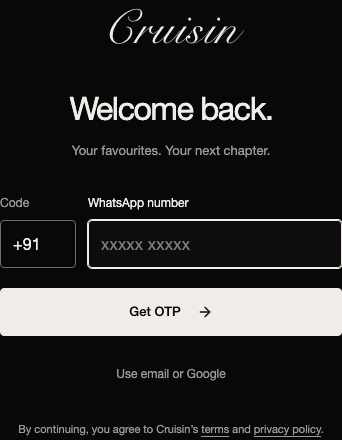
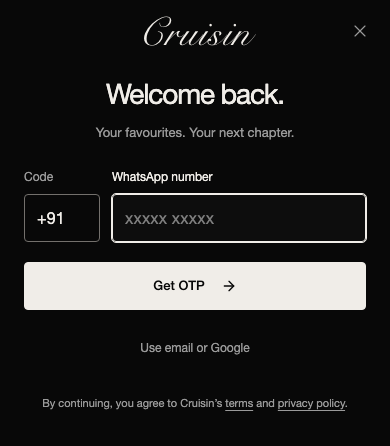
feat: add swipe-up authentication sheets for phones and tablets

diff --git a/client/components/auth/auth-page.tsx b/client/components/auth/auth-page.tsx
@@ -3,11 +3,12 @@
 
 import { useGoogleOAuth, type CredentialResponse, type GsiButtonConfiguration, type IdConfiguration } from '@react-oauth/google';
 import { zodResolver } from '@hookform/resolvers/zod';
-import { motion } from 'framer-motion';
+import { motion,useDragControls } from 'framer-motion';
 import { ArrowLeft, ArrowRight, X } from 'lucide-react';
 import Link from 'next/link';
 import { useRouter, useSearchParams } from 'next/navigation';
 import { useEffect, useId, useMemo, useRef, useState, type ReactNode } from 'react';
+import {createPortal} from 'react-dom';
 import { Controller, useForm } from 'react-hook-form';
 import type { z } from 'zod';
 import { Button } from '@/components/ui/button';
@@ -18,6 +19,7 @@ import { ROUTES } from '@/constants/routes';
 import { useGoogleLogin, useLogin, useRegister, useRequestOtp, useVerifyOtp } from '@/hooks/useAuth';
 import { e164PhoneSchema, loginSchema, registerSchema, otpVerifySchema } from '@/lib/schemas';
 import { acquireBodyScrollLock } from '@/lib/body-scroll-lock';
+import {useCompactAuth} from '@/hooks/useCompactAuth';
 import {useStorefrontReducedMotion} from '@/hooks/useStorefrontMotion';
 import {authSurfaceMotion} from '@/lib/animations';
 import type { User } from '@/types/user.types';
@@ -66,6 +68,13 @@ export interface AuthPageProps {
 }
 
 export function AuthPage({ initialTab, presentation = 'page', initialMethod, redirectTo, onDismiss }: AuthPageProps): ReactNode {
+  const [mounted,setMounted]=useState(false);
+  useEffect(()=>setMounted(true),[]);
+  const compact=useCompactAuth();
+  const surface=presentation==='sheet'||compact?'sheet':'page';
+  const dragControls=useDragControls();
+  const dragged=useRef(false);
+  const [expanded,setExpanded]=useState(false);
   const instance=useId();
   const phoneId=`whatsapp-number-${instance}`;
   const otpId=`whatsapp-otp-${instance}`;
@@ -75,7 +84,7 @@ export function AuthPage({ initialTab, presentation = 'page', initialMethod, red
   const router = useRouter();
   const searchParams = useSearchParams();
   const [tab, setTab] = useState<AuthTab>(initialTab);
-  const [showAlternatives, setShowAlternatives] = useState(() => !IDENTITY_CONFIG.whatsappOtpEnabled || initialMethod === 'alternative' || searchParams.get('method') === 'alternative');
+  const [showAlternatives, setShowAlternatives] = useState(() => !IDENTITY_CONFIG.whatsappOtpEnabled || initialTab==='signup' || initialMethod === 'alternative' || searchParams.get('method') === 'alternative');
   const [countryCode, setCountryCode] = useState('+91');
   const [nationalNumber, setNationalNumber] = useState('');
   const [phoneError, setPhoneError] = useState('');
@@ -99,7 +108,7 @@ export function AuthPage({ initialTab, presentation = 'page', initialMethod, red
   }, [countryCode, nationalNumber]);
 
   useEffect(() => {
-    if (presentation !== 'sheet') return;
+    if (surface !== 'sheet') return;
     const opener=document.activeElement instanceof HTMLElement?document.activeElement:null;
     const releaseScrollLock = acquireBodyScrollLock();
     document.body.classList.add('mobile-auth-open');
@@ -108,14 +117,14 @@ export function AuthPage({ initialTab, presentation = 'page', initialMethod, red
       document.body.classList.remove('mobile-auth-open');
       if(opener?.isConnected)opener.focus({preventScroll:true});
     };
-  }, [presentation]);
+  }, [surface]);
 
   useEffect(() => {
-    if(presentation!=='sheet')return;
+    if(surface!=='sheet')return;
     const focusId=requestOtp.data?otpId:showAlternatives?`auth-${tab==='signup'?'name':'email'}-${instance}`:phoneId;
     const focusTimer=window.setTimeout(()=>document.getElementById(focusId)?.focus(),80);
     return () => window.clearTimeout(focusTimer);
-  }, [instance,otpId,phoneId,presentation,requestOtp.data,showAlternatives,tab]);
+  }, [instance,otpId,phoneId,surface,requestOtp.data,showAlternatives,tab]);
 
   useEffect(() => {
     if (secondsRemaining <= 0) return;
@@ -222,11 +231,12 @@ export function AuthPage({ initialTab, presentation = 'page', initialMethod, red
   const otpError = verifyForm.formState.errors.otp?.message ?? (verifyOtp.error ? (/invalid otp/i.test(verifyOtp.error.message) ? COPY.auth.whatsapp.incorrectCode : verifyOtp.error.message) : undefined);
   const authError = login.error ?? registerMutation.error ?? googleLogin.error ?? requestOtp.error;
   const whatsappPrimary = IDENTITY_CONFIG.whatsappOtpEnabled && !showAlternatives;
+  const dismiss=():void=>{if(onDismiss)onDismiss();else router.replace(ROUTES.shop);};
   const isOtp=Boolean(requestOtp.data);
   const title=isOtp?COPY.auth.minimal.codeTitle:tab==='signup'?COPY.auth.createAccount:COPY.auth.minimal.welcome;
   const consent=<p className="auth-consent">{COPY.auth.whatsapp.consentPrefix} <Link href={ROUTES.terms}>{COPY.auth.whatsapp.terms}</Link> {COPY.common.and} <Link href={ROUTES.privacy}>{COPY.auth.whatsapp.privacy}</Link>.</p>;
-  const authShell=<div data-testid="auth-shell" className="minimal-auth" data-presentation={presentation}>
-    {presentation==='sheet'?<button className="auth-dismiss" type="button" onClick={onDismiss} aria-label={COPY.common.close}><X size={20} strokeWidth={1.4}/></button>:null}
+  const authShell=<div data-testid="auth-shell" className="minimal-auth" data-presentation={surface} id={`auth-content-${instance}`}>
+    {surface==='sheet'?<button className="auth-dismiss" type="button" onClick={dismiss} aria-label={COPY.common.close}><X size={20} strokeWidth={1.4}/></button>:null}
     <Link href={ROUTES.home} onClick={onDismiss} className="auth-identity brand-wordmark-script">{COPY.brand.name}</Link>
     <div className="auth-heading"><h1 id={titleId}>{title}</h1><p>{isOtp?`${COPY.auth.whatsapp.sentTo} ${formatPhone(countryCode,nationalNumber)}`:COPY.auth.minimal.intro}</p></div>
     {isOtp?<form noValidate onSubmit={verifyForm.handleSubmit(verifyCode)} data-testid="otp-bottom-sheet" className="auth-form auth-otp-form">
@@ -239,7 +249,7 @@ export function AuthPage({ initialTab, presentation = 'page', initialMethod, red
       {requestOtp.error?<p className="auth-error" role="alert">{requestOtp.error.message}</p>:null}
     </form>:whatsappPrimary?<div data-testid="whatsapp-primary-auth">
       <form noValidate onSubmit={event=>{event.preventDefault();sendOtp();}} className="auth-form">
-        <div className="auth-phone-row"><Input id={`whatsapp-country-${instance}`} label={COPY.auth.whatsapp.countryCode} inputMode="tel" autoComplete="tel-country-code" value={countryCode} onChange={event=>setCountryCode(event.target.value)}/><Input id={phoneId} label={COPY.auth.whatsapp.phone} type="tel" inputMode="numeric" autoComplete="tel-national" enterKeyHint="send" autoFocus maxLength={10} value={nationalNumber} onChange={event=>setNationalNumber(event.target.value.replace(/\D/g,'').slice(0,10))} placeholder={COPY.auth.whatsapp.phonePlaceholder} error={phoneError}/></div>
+        <div className="auth-phone-row"><Input id={`whatsapp-country-${instance}`} label={COPY.auth.whatsapp.countryCode} inputMode="tel" autoComplete="tel-country-code" value={countryCode} onChange={event=>setCountryCode(event.target.value)}/><Input id={phoneId} label={COPY.auth.whatsapp.phone} type="tel" inputMode="numeric" autoComplete="tel-national" enterKeyHint="send" autoFocus={surface==='page'} maxLength={10} value={nationalNumber} onChange={event=>setNationalNumber(event.target.value.replace(/\D/g,'').slice(0,10))} placeholder={COPY.auth.whatsapp.phonePlaceholder} error={phoneError}/></div>
         <Button type="submit" className="auth-primary" isLoading={requestOtp.isPending}>{COPY.auth.whatsapp.getOtp}<ArrowRight size={16}/></Button>
       </form>
       {authError?<p className="auth-error" role="alert">{authError.message}</p>:null}
@@ -269,17 +279,20 @@ export function AuthPage({ initialTab, presentation = 'page', initialMethod, red
     {consent}
   </div>;
 
-  if(presentation==='sheet')return <motion.div ref={dialogRef} data-testid="mobile-auth-overlay" className="auth-overlay" role="dialog" aria-modal="true" aria-labelledby={titleId} initial="closed" animate="open" exit="closed" onKeyDown={event=>{
-    if(event.key==='Escape'){event.stopPropagation();if(isOtp)resetOtp();else onDismiss?.();}
+  if(surface==='sheet')return mounted?createPortal(<motion.div ref={dialogRef} data-testid="mobile-auth-overlay" className="auth-overlay" role="dialog" aria-modal="true" aria-labelledby={titleId} initial="closed" animate="open" exit="closed" onKeyDown={event=>{
+    if(event.key==='Escape'){event.stopPropagation();if(isOtp)resetOtp();else dismiss();}
     if(event.key!=='Tab'||!dialogRef.current)return;
-    const controls=Array.from(dialogRef.current.querySelectorAll<HTMLElement>('.minimal-auth a[href],.minimal-auth button:not([disabled]),.minimal-auth input:not([type="hidden"]):not([disabled])'));
+    const controls=Array.from(dialogRef.current.querySelectorAll<HTMLElement>('[data-auth-drag-handle],.minimal-auth a[href],.minimal-auth button:not([disabled]),.minimal-auth input:not([type="hidden"]):not([disabled])'));
     const first=controls[0],last=controls[controls.length-1];
     if(event.shiftKey&&document.activeElement===first){event.preventDefault();last?.focus();}
     else if(!event.shiftKey&&document.activeElement===last){event.preventDefault();first?.focus();}
   }}>
-    <motion.button type="button" data-testid="mobile-auth-backdrop" aria-label={COPY.common.close} onClick={onDismiss} className="auth-backdrop" variants={authSurfaceMotion.backdrop} transition={{duration:reduced?0:authSurfaceMotion.fade}}/>
-    <motion.div className="auth-sheet" variants={reduced?authSurfaceMotion.static:authSurfaceMotion.sheet} transition={{duration:reduced?0:authSurfaceMotion.duration,ease:authSurfaceMotion.ease}}>{authShell}</motion.div>
-  </motion.div>;
+    <motion.button type="button" data-testid="mobile-auth-backdrop" aria-label={COPY.common.close} onClick={dismiss} className="auth-backdrop" variants={authSurfaceMotion.backdrop} transition={{duration:reduced?0:authSurfaceMotion.fade}}/>
+    <motion.div className="auth-sheet" data-expanded={expanded&&compact} drag={compact?'y':false} dragListener={false} dragControls={dragControls} dragConstraints={{top:0,bottom:0}} dragElastic={{top:.1,bottom:.35}} dragMomentum={false} onDragStart={()=>{dragged.current=true;}} onDragEnd={(_,info)=>{if(info.offset.y>authSurfaceMotion.dismissDistance||info.velocity.y>authSurfaceMotion.dismissVelocity)dismiss();else if(info.offset.y < -authSurfaceMotion.expandDistance)setExpanded(true);}} variants={reduced?authSurfaceMotion.static:compact?authSurfaceMotion.bottomSheet:authSurfaceMotion.sheet} transition={{duration:reduced?0:authSurfaceMotion.duration,ease:authSurfaceMotion.ease}}>
+      {compact?<button type="button" className="auth-sheet-handle" data-auth-drag-handle aria-label={expanded?COPY.auth.minimal.collapseForm:COPY.auth.minimal.expandForm} aria-expanded={expanded} aria-controls={`auth-content-${instance}`} onPointerDown={event=>{dragged.current=false;dragControls.start(event);}} onClick={event=>{if(event.detail>0&&dragged.current)return;setExpanded(value=>!value);}}><span/></button>:null}
+      {authShell}
+    </motion.div>
+  </motion.div>,document.body):null;
   return <main className="auth-page">{authShell}</main>;
 }
 

diff --git a/client/app/(shop)/checkout/page.tsx b/client/app/(shop)/checkout/page.tsx
@@ -10,6 +10,7 @@ import type { ReactNode } from 'react';
 import { useEffect, useMemo, useRef, useState } from 'react';
 import { useForm } from 'react-hook-form';
 import type { z } from 'zod';
+import {useCompactAuth} from '@/hooks/useCompactAuth';
 import { useMobileAuthSheet } from '@/components/auth/mobile-auth-sheet-provider';
 import { CheckoutProgress } from '@/components/checkout/checkout-progress';
 import { CheckoutFlowHeader } from '@/components/checkout/checkout-flow-header';
@@ -47,6 +48,7 @@ type CheckoutForm = z.infer<typeof checkoutPageSchema>;
 const getOrderId = (order: { _id?: string; id?: string }): string => order.id ?? order._id ?? '';
 
 export default function CheckoutPage(): ReactNode {
+  const compactAuth=useCompactAuth();
   const router = useRouter();
   const { openMobileAuth } = useMobileAuthSheet();
   const checkout = useCheckout();
@@ -172,7 +174,7 @@ export default function CheckoutPage(): ReactNode {
   };
   const onSubmit = (data: CheckoutForm): void => { if (!user) return; setPaymentMessage(''); const address = { fullName: data.fullName, phone: data.phone, line1: data.line1, line2: data.line2, city: data.city, state: data.state, postalCode: data.postalCode, country: data.country }; const paymentMode = data.paymentMethod === 'cod' ? 'cod' : data.paymentMethod === 'partial' ? 'partial' : 'online'; const metaEventId = getOrCreateCheckoutEventId({ items: visibleCartItems, value: orderTotal, coupon }); checkout.mutate({ shippingAddress: address, billingAddress: address, paymentMethod: 'razorpay', paymentMode, shippingMethod: data.shippingMethod, logisticsQuoteId: logisticsQuote.data?.quoteId, metaEventId }, { onSuccess: (result) => { const id = getOrderId(result.order); if (paymentMode === 'cod') { finish(result.order, 'success'); return; } const issue = checkoutPaymentSessionIssue(result, orderTotal, paymentMode); if (issue) { clearCheckoutAttempt(); setPaymentMessage(issue); return; } if (!result.payment?.id) { clearCheckoutAttempt(); setPaymentMessage('A payment session could not be created. Please retry.'); return; } void openRazorpay(id, result.payment.id, result.amountToPay, data).catch((error: unknown) => setPaymentMessage(error instanceof Error ? error.message : 'Secure checkout could not be opened.')); } }); };
   if (!isAuthInitialized) return <main className="min-h-dvh px-6 py-32 lg:px-20" aria-busy="true"><section className="mx-auto max-w-2xl border border-border bg-background-elevated p-8 shadow-lg"><p className="font-accent text-xs uppercase tracking-[0.16em] text-accent-gold">Private checkout</p><div className="mt-6 h-12 max-w-md animate-shimmer bg-[linear-gradient(90deg,var(--bg-elevated),var(--bg-overlay),var(--bg-elevated))] bg-[length:200%_100%]" /><p className="mt-6 text-sm text-text-secondary" aria-live="polite">{COPY.auth.checkingSession}</p></section></main>;
-  if (!user) { const login = ROUTES.login + '?redirect=' + encodeURIComponent(ROUTES.checkout); return <main className="px-6 py-32 lg:px-20"><section className="mx-auto max-w-2xl border border-border bg-background-elevated p-8 text-center shadow-lg"><p className="font-accent text-xs uppercase tracking-[0.16em] text-accent-gold">{COPY.auth.privateAccess}</p><h1 className="mt-4 font-display text-4xl text-text-primary">{COPY.auth.prompts.checkout.title}</h1><p className="mx-auto mt-4 max-w-lg text-sm leading-6 text-text-secondary">{COPY.auth.prompts.checkout.body}</p><div className="mt-8 grid gap-3"><button type="button" onClick={() => openMobileAuth({ next: ROUTES.checkout })} className="inline-flex h-12 items-center justify-center bg-accent-gold px-5 text-xs uppercase tracking-[0.1em] text-text-inverse md:hidden">{COPY.auth.whatsapp.continue}</button><Link href={login} className="hidden h-12 items-center justify-center bg-accent-gold px-5 text-xs uppercase tracking-[0.1em] text-text-inverse md:inline-flex">{COPY.auth.whatsapp.continue}</Link><button type="button" onClick={() => openMobileAuth({ next: ROUTES.checkout, method: 'alternative' })} className="inline-flex h-12 items-center justify-center border border-border px-5 text-xs uppercase tracking-[0.1em] text-text-primary md:hidden">{COPY.auth.whatsapp.useAlternatives}</button><Link href={login + '&method=alternative'} className="hidden h-12 items-center justify-center border border-border px-5 text-xs uppercase tracking-[0.1em] text-text-primary md:inline-flex">{COPY.auth.whatsapp.useAlternatives}</Link></div><Link href={ROUTES.shop} className="mt-5 inline-flex text-xs uppercase tracking-[0.1em] text-text-secondary hover:text-text-primary">{COPY.auth.prompts.checkout.dismiss}</Link></section></main>; }
+  if (!user) { const login = ROUTES.login + '?redirect=' + encodeURIComponent(ROUTES.checkout); return <main className="px-6 py-32 lg:px-20"><section className="mx-auto max-w-2xl border border-border bg-background-elevated p-8 text-center shadow-lg"><p className="font-accent text-xs uppercase tracking-[0.16em] text-accent-gold">{COPY.auth.privateAccess}</p><h1 className="mt-4 font-display text-4xl text-text-primary">{COPY.auth.prompts.checkout.title}</h1><p className="mx-auto mt-4 max-w-lg text-sm leading-6 text-text-secondary">{COPY.auth.prompts.checkout.body}</p><div className="mt-8 grid gap-3"><button type="button" onClick={() => openMobileAuth({ next: ROUTES.checkout })} className={(compactAuth?'inline-flex':'hidden')+' h-12 items-center justify-center bg-accent-gold px-5 text-xs uppercase tracking-[0.1em] text-text-inverse'}>{COPY.auth.whatsapp.continue}</button><Link href={login} className={(compactAuth?'hidden':'inline-flex')+' h-12 items-center justify-center bg-accent-gold px-5 text-xs uppercase tracking-[0.1em] text-text-inverse'}>{COPY.auth.whatsapp.continue}</Link><button type="button" onClick={() => openMobileAuth({ next: ROUTES.checkout, method: 'alternative' })} className={(compactAuth?'inline-flex':'hidden')+' h-12 items-center justify-center border border-border px-5 text-xs uppercase tracking-[0.1em] text-text-primary'}>{COPY.auth.whatsapp.useAlternatives}</button><Link href={login + '&method=alternative'} className={(compactAuth?'hidden':'inline-flex')+' h-12 items-center justify-center border border-border px-5 text-xs uppercase tracking-[0.1em] text-text-primary'}>{COPY.auth.whatsapp.useAlternatives}</Link></div><Link href={ROUTES.shop} className="mt-5 inline-flex text-xs uppercase tracking-[0.1em] text-text-secondary hover:text-text-primary">{COPY.auth.prompts.checkout.dismiss}</Link></section></main>; }
   const changePayment = (value: 'razorpay' | 'cod' | 'partial'): void => {
     if (value === selectedPayment) return;
     setValue('paymentMethod', value);

diff --git a/client/e2e/auth-swipe.spec.ts b/client/e2e/auth-swipe.spec.ts
@@ -1,0 +1,63 @@
+import {expect,test,type Page} from '@playwright/test';
+import AxeBuilder from '@axe-core/playwright';
+import {resolve} from 'node:path';
+import {mkdir} from 'node:fs/promises';
+
+test.use({hasTouch:true});
+async function swipeHandle(page:Page,distance:number):Promise<void>{
+ const bounds=await page.locator('[data-auth-drag-handle]').boundingBox();
+ if(!bounds)throw new Error('Missing sheet handle');
+ const x=bounds.x+bounds.width/2,y=bounds.y+bounds.height/2;
+ const session=await page.context().newCDPSession(page);
+ await session.send('Input.dispatchTouchEvent',{type:'touchStart',touchPoints:[{x,y}]});
+ for(let step=1;step<=10;step++){
+  await session.send('Input.dispatchTouchEvent',{type:'touchMove',touchPoints:[{x,y:y+distance*step/10}]});
+  await page.waitForTimeout(20);
+ }
+ await session.send('Input.dispatchTouchEvent',{type:'touchEnd',touchPoints:[]});
+ await session.detach();
+}
+async function expectBottom(page:Page):Promise<void>{
+ await expect.poll(async()=>{const bounds=await page.locator('.auth-sheet').boundingBox();return bounds?Math.abs(bounds.y+bounds.height-(page.viewportSize()?.height??0)):100;}).toBeLessThan(2);
+ await expect.poll(()=>page.evaluate(()=>document.documentElement.scrollWidth<=innerWidth)).toBe(true);
+}
+for(const width of [390,820,1024,1194,1366])for(const theme of ['light','dark'] as const){
+ test(`bottom sheet supports all forms and touch gestures: ${width}px ${theme}`,async({page})=>{
+  await page.setViewportSize({width,height:width===1194?834:1000});
+  await page.addInitScript(value=>localStorage.setItem('cruisin-storefront-theme',value),theme);
+  await page.route('**/api/v1/auth/otp/request',route=>route.fulfill({status:201,contentType:'application/json',body:JSON.stringify({success:true,data:{requestId:'665f6d8403bd2edc93800000',channel:'whatsapp',cooldownSeconds:60,expiresAt:new Date(Date.now()+300000).toISOString()},message:'OTP sent'})}));
+  await page.goto('/shop');
+  await expect(page.locator('html')).toHaveClass(new RegExp(theme));
+  await page.getByRole('button',{name:'Account',exact:true}).click();
+  const overlay=page.getByTestId('mobile-auth-overlay');
+  await expect(overlay).toBeVisible();await expectBottom(page);
+  await expect(page).toHaveURL(/\/shop$/);
+  const capture=async(name:string):Promise<void>=>{if(width===390||width===1024){await mkdir(resolve('../docs/qa/screenshots'),{recursive:true});await page.locator('.auth-sheet').screenshot({path:resolve(`../docs/qa/screenshots/cruisin-v2-swipe-${name}-${theme}-${width}.png`)});}};
+  await capture('login');
+  await swipeHandle(page,-120);await expect(page.locator('.auth-sheet')).toHaveAttribute('data-expanded','true');await expectBottom(page);
+  await page.getByRole('button',{name:'Collapse form',exact:true}).click();await expect(page.locator('.auth-sheet')).toHaveCSS('min-height','0px');
+  await page.getByLabel('WhatsApp number').fill('9876543210');await page.getByRole('button',{name:'Get OTP',exact:true}).click();
+  await expect(page.getByLabel('Verification code')).toBeFocused();await expectBottom(page);await expect(page.getByRole('dialog')).toHaveCount(1);await capture('otp');
+  await page.getByRole('button',{name:'Change number',exact:true}).click();await page.getByRole('button',{name:'Use email or Google',exact:true}).click();
+  await expect(page.getByLabel('Password',{exact:true})).toBeVisible();await expectBottom(page);
+  await page.getByRole('tab',{name:'Create account',exact:true}).click();await expect(page.getByLabel('Confirm Password')).toBeVisible();await expectBottom(page);await capture('signup');
+  expect((await new AxeBuilder({page}).include('.auth-overlay').withTags(['wcag2a','wcag2aa']).analyze()).violations).toEqual([]);
+  await swipeHandle(page,140);await expect(overlay).toBeHidden();await expect(page).toHaveURL(/\/shop$/);await expect.poll(()=>page.evaluate(()=>document.body.style.overflow)).toBe('');
+  await expect(page.getByRole('button',{name:'Account',exact:true})).toBeFocused();
+ });
+}
+
+test('direct tablet login and registration URLs use sheets, while desktop keeps its page',async({page,browser})=>{
+ await page.setViewportSize({width:1024,height:900});await page.goto('/register');
+ await expect(page.getByTestId('mobile-auth-overlay')).toBeVisible();await expect(page.getByLabel('Confirm Password')).toBeVisible();await expectBottom(page);
+ await page.getByTestId('auth-shell').getByRole('button',{name:'Close',exact:true}).click();await expect(page).toHaveURL(/\/shop$/);
+ await page.goto('/login?method=alternative');await expect(page.getByTestId('mobile-auth-overlay')).toBeVisible();await expectBottom(page);
+ const desktop=await browser.newPage({viewport:{width:1440,height:1000},hasTouch:false});await desktop.goto('http://127.0.0.1:3192/login?method=alternative');await expect(desktop.getByTestId('mobile-auth-overlay')).toBeHidden();await expect(desktop.locator('.auth-page')).toBeVisible();await expect.poll(()=>desktop.evaluate(()=>document.body.style.overflow)).toBe('');await desktop.close();
+});
+
+test('tablet checkout opens the authentication sheet without leaving checkout',async({page})=>{
+ await page.setViewportSize({width:1024,height:900});await page.goto('/checkout');
+ await page.locator('#main').getByRole('button',{name:'Continue with WhatsApp',exact:true}).click();
+ await expect(page.getByTestId('mobile-auth-overlay')).toBeVisible();await expectBottom(page);await expect(page).toHaveURL(/\/checkout$/);
+ await page.getByTestId('mobile-auth-backdrop').click({position:{x:10,y:10}});await expect(page.getByTestId('mobile-auth-overlay')).toBeHidden();await expect.poll(()=>page.evaluate(()=>document.body.style.overflow)).toBe('');
+});

diff --git a/client/components/auth/login-required-modal.tsx b/client/components/auth/login-required-modal.tsx
@@ -1,7 +1,8 @@
 'use client';
 
 import Link from 'next/link';
-import type { ReactNode } from 'react';
+import {useEffect,type ReactNode} from 'react';
+import {useCompactAuth} from '@/hooks/useCompactAuth';
 import { useMobileAuthSheet } from '@/components/auth/mobile-auth-sheet-provider';
 import { Button } from '@/components/ui/button';
 import { Modal } from '@/components/shared/modal';
@@ -16,7 +17,9 @@ export interface LoginRequiredModalProps {
 }
 
 export function LoginRequiredModal({ open, onOpenChange, next, action }: LoginRequiredModalProps): ReactNode {
+  const compact=useCompactAuth();
   const { openMobileAuth } = useMobileAuthSheet();
+  useEffect(()=>{if(open&&compact){onOpenChange(false);openMobileAuth({next});}},[compact,next,onOpenChange,open,openMobileAuth]);
   const content = COPY.auth.prompts[action];
   const login = ROUTES.login + '?redirect=' + encodeURIComponent(next);
   const alternative = login + '&method=alternative';
@@ -24,5 +27,5 @@ export function LoginRequiredModal({ open, onOpenChange, next, action }: LoginRe
     onOpenChange(false);
     openMobileAuth({ next, method });
   };
-  return <Modal className="minimal-auth-prompt" open={open} onOpenChange={onOpenChange} title={content.title}><p className="max-w-md text-sm leading-6 text-text-secondary">{content.body}</p><div className="mt-7 grid gap-3"><button type="button" onClick={() => openSheet('whatsapp')} className="inline-flex h-12 items-center justify-center bg-accent-gold px-5 text-xs uppercase tracking-[0.1em] text-text-inverse md:hidden">{COPY.auth.whatsapp.continue}</button><Link href={login} className="hidden h-12 items-center justify-center bg-accent-gold px-5 text-xs uppercase tracking-[0.1em] text-text-inverse md:inline-flex">{COPY.auth.whatsapp.continue}</Link><button type="button" onClick={() => openSheet('alternative')} className="inline-flex h-12 items-center justify-center border border-border px-5 text-xs uppercase tracking-[0.1em] text-text-primary md:hidden">{COPY.auth.whatsapp.useAlternatives}</button><Link href={alternative} className="hidden h-12 items-center justify-center border border-border px-5 text-xs uppercase tracking-[0.1em] text-text-primary md:inline-flex">{COPY.auth.whatsapp.useAlternatives}</Link></div><Button type="button" variant="ghost" className="mt-4 px-0 text-text-secondary" onClick={() => onOpenChange(false)}>{content.dismiss}</Button></Modal>;
+  return <Modal className="minimal-auth-prompt" open={open&&!compact} onOpenChange={onOpenChange} title={content.title}><p className="max-w-md text-sm leading-6 text-text-secondary">{content.body}</p><div className="mt-7 grid gap-3"><button type="button" onClick={() => openSheet('whatsapp')} className="inline-flex h-12 items-center justify-center bg-accent-gold px-5 text-xs uppercase tracking-[0.1em] text-text-inverse md:hidden">{COPY.auth.whatsapp.continue}</button><Link href={login} className="hidden h-12 items-center justify-center bg-accent-gold px-5 text-xs uppercase tracking-[0.1em] text-text-inverse md:inline-flex">{COPY.auth.whatsapp.continue}</Link><button type="button" onClick={() => openSheet('alternative')} className="inline-flex h-12 items-center justify-center border border-border px-5 text-xs uppercase tracking-[0.1em] text-text-primary md:hidden">{COPY.auth.whatsapp.useAlternatives}</button><Link href={alternative} className="hidden h-12 items-center justify-center border border-border px-5 text-xs uppercase tracking-[0.1em] text-text-primary md:inline-flex">{COPY.auth.whatsapp.useAlternatives}</Link></div><Button type="button" variant="ghost" className="mt-4 px-0 text-text-secondary" onClick={() => onOpenChange(false)}>{content.dismiss}</Button></Modal>;
 }

diff --git a/client/e2e/auth.spec.ts b/client/e2e/auth.spec.ts
@@ -139,8 +139,9 @@ test('opens WhatsApp OTP directly for logged-out mobile checkout', async ({ page
   await expect(page.getByLabel('WhatsApp number')).toBeFocused();
 });
 
-test('hands the mobile cart drawer to authentication without leaving pointer input frozen', async ({ page }) => {
-  await page.setViewportSize({ width: 414, height: 896 });
+for(const width of [414,1024]){
+test(`hands the ${width}px cart drawer to authentication without leaving pointer input frozen`, async ({ page }) => {
+  await page.setViewportSize({ width, height: 896 });
   await page.addInitScript(() => {
     const product = { id: '665f6d8403bd2edc93800010', title: 'Checkout QA Tee', slug: 'checkout-qa-tee', description: 'QA', richDescription: 'QA', brand: 'Cruisin', category: 'qa', categoryIds: [], collections: [], images: [], basePrice: 1, variants: [{ id: '665f6d8403bd2edc93800011', size: 'One', color: 'Black', colorHex: '#000000', sku: 'QA-TEE', price: 1, stock: 2, enabled: true, images: [] }], tags: [], status: 'published', visibility: 'visible', isActive: true, isFeatured: false, ratings: { avg: 0, count: 0 }, seo: { metaTitle: 'QA', metaDesc: 'QA', ogImage: '' }, reviews: [] };
     window.localStorage.setItem('cruisin-cart', JSON.stringify({ state: { items: [{ product, variantId: product.variants[0].id, size: 'One', color: 'Black', quantity: 1, price: 1 }], isOpen: false, couponDiscount: 0, freeShipping: false }, version: 0 }));
@@ -159,6 +160,8 @@ test('hands the mobile cart drawer to authentication without leaving pointer inp
   await phone.fill('9876543210');
   await expect(phone).toHaveValue('9876543210');
 });
+
+}
 
 test('keeps the desktop cart mounted while opening the checkout sign-in prompt', async ({ page }) => {
   await page.setViewportSize({ width: 1440, height: 900 });
@@ -218,8 +221,8 @@ test('signs a fresh mobile shopper in through a mocked WhatsApp OTP and preserve
   const otpSheet = page.getByTestId('otp-bottom-sheet');
   await expect(otpSheet).toBeVisible();
   await expect(page.getByRole('heading',{name:'Check your WhatsApp.'})).toBeVisible();
-  await expect(page.getByRole('dialog')).toHaveCount(0);
-  await expect.poll(async()=>page.evaluate(()=>document.body.style.overflow)).toBe('');
+  await expect(page.getByRole('dialog')).toHaveCount(1);
+  await expect.poll(async()=>page.evaluate(()=>document.body.style.overflow)).toBe('hidden');
   const otpInput = page.getByLabel('Verification code');
   await expect(otpInput).toBeFocused();
   await expect(otpInput).toHaveAttribute('autocomplete', 'one-time-code');
@@ -238,7 +241,7 @@ test('signs a fresh mobile shopper in through a mocked WhatsApp OTP and preserve
 });
 
 test('keeps a sheet opened from the login page separate from its background form',async({page})=>{
-  await page.setViewportSize({width:390,height:844});
+  await page.setViewportSize({width:1440,height:1000});
   await page.goto('/login');
   await openAuthSheet(page);
   const overlay=page.getByTestId('mobile-auth-overlay');

diff --git a/client/app/globals.css b/client/app/globals.css
@@ -1005,7 +1005,8 @@ html.dark .auth-page,html.dark .minimal-auth,html.dark .minimal-menu { --auth-li
 .minimal-menu-card span.font-display { font-family:var(--font-body); font-size:18px; }
 .minimal-menu-columns > a { color:var(--text-primary); }
 .minimal-menu-all { display:flex; justify-content:space-between; align-items:center; gap:16px; min-height:44px; font-size:13px; margin-bottom:16px; }
-@media(min-width:768px) { .auth-page { padding-top:176px; padding-bottom:80px; } .auth-overlay { align-items:center; padding:24px; } .auth-sheet { max-width:480px; border-radius:12px; } .auth-sheet .minimal-auth { padding:48px 32px; } }
+@media(min-width:768px) { .auth-page { padding-top:176px; padding-bottom:80px; } }
+@media(min-width:1280px) { .auth-overlay { align-items:center; padding:24px; } .auth-sheet { max-width:480px; border-radius:12px; } .auth-sheet .minimal-auth { padding:48px 32px; } }
 @media(min-width:1024px) { .editorial-navigation-drawer.minimal-menu { width:min(880px,88vw); padding:0 32px 32px; } .minimal-menu-header { height:88px; } .minimal-menu-layout { display:grid; grid-template-columns:240px minmax(0,1fr); gap:32px; } .minimal-menu-primary { display:flex; flex-direction:column; } .minimal-menu-account { margin-top:auto; padding-top:20px; } .minimal-menu-primary nav { padding-bottom:48px; } .minimal-menu-detail { border-left:1px solid var(--border-default); padding-left:32px; min-height:calc(100dvh - 224px); } .minimal-menu .minimal-menu-column > button:disabled { cursor:default; } .minimal-menu .minimal-menu-column > button:disabled svg { display:none; } }
 @media(prefers-reduced-motion:reduce) { .auth-primary svg,.auth-otp-slots span,.minimal-menu-root svg { transition:none; } }
 
@@ -1020,3 +1021,9 @@ html.dark .auth-page,html.dark .minimal-auth,html.dark .minimal-menu { --auth-li
 
 .minimal-menu-promo-overlay { opacity:var(--menu-promo-opacity,.5); }
 @media(min-width:1024px) { .minimal-menu-primary { position:sticky; top:24px; height:calc(100dvh - 192px); min-height:520px; align-self:start; } }
+
+.auth-sheet-handle { display:grid; place-items:center; width:100%; height:44px; touch-action:none; cursor:grab; }
+.auth-sheet-handle:active { cursor:grabbing; }
+.auth-sheet-handle span { width:40px; height:4px; border-radius:4px; background:var(--text-secondary); opacity:.7; }
+@media(max-width:1279px),(hover:none) and (pointer:coarse) { .auth-overlay { align-items:flex-end; padding:0; } .auth-sheet { max-width:560px; min-height:0; border-radius:24px 24px 0 0; transition:min-height .35s var(--storefront-ease); } .auth-sheet[data-expanded="true"] { min-height:calc(100dvh - 24px); } .auth-sheet .minimal-auth { padding:8px 24px max(32px,env(safe-area-inset-bottom)); } }
+@media(prefers-reduced-motion:reduce) { .auth-sheet { transition:none; } }

diff --git a/client/components/layout/account-menu.tsx b/client/components/layout/account-menu.tsx
@@ -5,6 +5,8 @@ import { LogOut, Settings, User } from 'lucide-react';
 import Link from 'next/link';
 import { usePathname } from 'next/navigation';
 import { useEffect, useRef, useState, type ReactNode } from 'react';
+import {useCompactAuth} from '@/hooks/useCompactAuth';
+import {useMobileAuthSheet} from '@/components/auth/mobile-auth-sheet-provider';
 import { LoginRequiredModal } from '@/components/auth/login-required-modal';
 import { COPY } from '@/constants/copy';
 import { ROUTES } from '@/constants/routes';
@@ -14,6 +16,8 @@ import { useAuthStore } from '@/store/authStore';
 export interface AccountMenuProps { }
 
 export function AccountMenu(_props: AccountMenuProps): ReactNode {
+  const compact=useCompactAuth();
+  const {openMobileAuth}=useMobileAuthSheet();
   const [open, setOpen] = useState(false);
   const [protectedAction, setProtectedAction] = useState<'wishlist' | 'orders' | null>(null);
   const containerRef = useRef<HTMLDivElement>(null);
@@ -34,7 +38,7 @@ export function AccountMenu(_props: AccountMenuProps): ReactNode {
 
   return <>
     <div ref={containerRef} className="relative">
-      <button type="button" aria-label={COPY.nav.account} aria-expanded={open} aria-haspopup="menu" className={'flex h-11 items-center justify-center gap-2 text-text-secondary transition hover:bg-background-elevated hover:text-text-primary ' + (user ? 'w-11' : 'px-3')} onClick={() => setOpen((current) => !current)}>
+      <button type="button" aria-label={COPY.nav.account} aria-expanded={compact&&!user?undefined:open} aria-haspopup={compact&&!user?'dialog':'menu'} className={'flex h-11 items-center justify-center gap-2 text-text-secondary transition hover:bg-background-elevated hover:text-text-primary ' + (user ? 'w-11' : 'px-3')} onClick={()=>{if(compact&&!user){setOpen(false);openMobileAuth({next:pathname});return;}setOpen(current=>!current);}}>
         <User size={18} />{!user ? <span className="hidden text-xs uppercase tracking-[0.1em] md:inline">{COPY.auth.signIn}</span> : null}
       </button>
       {open ? <div role="menu" className="minimal-account-menu absolute right-0 top-14 w-64 border border-border bg-background-elevated p-2 shadow-lg">

diff --git a/client/e2e/auth-branding.spec.ts b/client/e2e/auth-branding.spec.ts
@@ -8,8 +8,9 @@ for(const theme of ['light','dark'] as const)for(const width of [390,1440]){
   await mkdir(screenshots,{recursive:true});
   await page.setViewportSize({width,height:width<1024?844:1000});
   await page.route('**/api/v1/auth/otp/request',route=>route.fulfill({status:201,contentType:'application/json',body:JSON.stringify({success:true,data:{requestId:'665f6d8403bd2edc93800000',channel:'whatsapp',cooldownSeconds:60,expiresAt:new Date(Date.now()+300000).toISOString()},message:'OTP sent'})}));
+  await page.addInitScript(value=>localStorage.setItem('cruisin-storefront-theme',value),theme);
   await page.goto('/login');
-  await page.getByRole('combobox',{name:'Color theme',exact:true}).selectOption(theme);
+  await expect(page.locator('html')).toHaveClass(new RegExp(theme));
   const auth=page.getByTestId('auth-shell');
   await auth.scrollIntoViewIfNeeded();
   await expect(auth.getByRole('heading',{name:'Welcome back.'})).toBeVisible();
@@ -31,6 +32,7 @@ for(const theme of ['light','dark'] as const)for(const width of [390,1440]){
   await expect(page.getByLabel('Email', {exact:true})).toHaveAttribute('aria-invalid','true');
   await page.getByRole('tab',{name:'Create account',exact:true}).click();
   await expect(page.getByLabel('Confirm Password')).toBeVisible();
+  if(width<1280){await auth.getByRole('button',{name:'Close',exact:true}).click();await expect(page.getByTestId('mobile-auth-overlay')).toBeHidden();}
   await page.getByRole('button',{name:'Menu',exact:true}).click();
   const menu=page.locator('.minimal-menu');
   await menu.getByRole('button',{name:'Men',exact:true}).click();

diff --git a/client/playwright.editorial.config.ts b/client/playwright.editorial.config.ts
@@ -1,4 +1,4 @@
 import {defineConfig,devices} from '@playwright/test';
 const origin=process.env.PLAYWRIGHT_STOREFRONT_URL??'http://127.0.0.1:3192';
 for(const value of [origin,process.env.PLAYWRIGHT_ADMIN_URL??'http://127.0.0.1:3193',process.env.PLAYWRIGHT_API_URL??'http://127.0.0.1:8192'])if(!['127.0.0.1','localhost'].includes(new URL(value).hostname))throw new Error('Editorial acceptance refuses nonlocal targets');
-export default defineConfig({testDir:'./e2e',testMatch:[/auth\.spec\.ts/,/auth-branding\.spec\.ts/,/cruisin-workspace\.spec\.ts/,/header-tagline\.spec\.ts/,/listing-editorial-header\.spec\.ts/,/photographic-storefront\.spec\.ts/,/cms-studio\.spec\.ts/,/editorial-cms\.spec\.ts/,/cms-publication-isolation\.spec\.ts/],workers:1,timeout:120000,retries:0,use:{baseURL:origin,trace:'retain-on-failure',screenshot:'only-on-failure'},projects:[{name:'chromium',use:{...devices['Desktop Chrome'],viewport:{width:1440,height:1000}}}]});
+export default defineConfig({testDir:'./e2e',testMatch:[/auth-swipe\.spec\.ts/,/auth\.spec\.ts/,/auth-branding\.spec\.ts/,/cruisin-workspace\.spec\.ts/,/header-tagline\.spec\.ts/,/listing-editorial-header\.spec\.ts/,/photographic-storefront\.spec\.ts/,/cms-studio\.spec\.ts/,/editorial-cms\.spec\.ts/,/cms-publication-isolation\.spec\.ts/],workers:1,timeout:120000,retries:0,use:{baseURL:origin,trace:'retain-on-failure',screenshot:'only-on-failure'},projects:[{name:'chromium',use:{...devices['Desktop Chrome'],viewport:{width:1440,height:1000}}}]});

diff --git a/client/components/product/wishlist-button.tsx b/client/components/product/wishlist-button.tsx
@@ -4,6 +4,7 @@
 import { Heart } from 'lucide-react';
 import { useState, type ReactNode } from 'react';
 import { LoginRequiredModal } from '@/components/auth/login-required-modal';
+import {compactAuthQuery} from '@/lib/auth-presentation';
 import { useMobileAuthSheet } from '@/components/auth/mobile-auth-sheet-provider';
 import { Button } from '@/components/ui/button';
 import { COPY } from '@/constants/copy';
@@ -23,7 +24,7 @@ export function WishlistButton({ product, next }: WishlistButtonProps): ReactNod
   const [loading, setLoading] = useState(false);
   const [prompt, setPrompt] = useState(false);
   const handleClick = async (): Promise<void> => {
-    if (!accessToken) { if (window.matchMedia('(max-width: 767px)').matches) openMobileAuth({ next }); else setPrompt(true); return; }
+    if (!accessToken) { if (window.matchMedia(compactAuthQuery).matches) openMobileAuth({ next }); else setPrompt(true); return; }
     setLoading(true);
     await performWishlistToggle({ authenticated: true, product, isWishlisted: has, toggle: () => toggle(productId), request: () => api.post(`/wishlist/${productId}`) });
     setLoading(false);

diff --git a/client/constants/copy.ts b/client/constants/copy.ts
@@ -71,7 +71,7 @@ export const COPY = {
   },
   fields: { label: 'Label', fullName: 'Full name', phone: 'Phone', whatsapp: 'WhatsApp number', city: 'City', state: 'State', postalCode: 'Postal code', country: 'Country', street: 'Street', landmark: 'Landmark', addressType: 'Address type', defaultCountry: 'India' },
   auth: {
-    minimal: { welcome: 'Welcome back.', intro: 'Your favourites. Your next chapter.', codeTitle: 'Check your WhatsApp.', created: 'Account created. Check your email to verify it, then sign in.', createdLabel: 'Account created' },
+    minimal: { expandForm:'Expand form',collapseForm:'Collapse form',welcome: 'Welcome back.', intro: 'Your favourites. Your next chapter.', codeTitle: 'Check your WhatsApp.', created: 'Account created. Check your email to verify it, then sign in.', createdLabel: 'Account created' },
     login: 'Login',
     register: 'Register',
     signIn: 'Sign in',

diff --git a/client/lib/animations.ts b/client/lib/animations.ts
@@ -12,6 +12,6 @@ export const navReveal: Variants = { initial: { opacity: 0, y: -18 }, animate: {
 
 export const footerWaveMotion = { amplitude:46, ripple:15, speed:0.62, pointerEase:0.035 } as const;
 
-export const authSurfaceMotion={ duration:0.4,fade:0.24,ease:[0.22,1,0.36,1] as const,backdrop:{closed:{opacity:0},open:{opacity:1}},sheet:{closed:{y:32,opacity:0},open:{y:0,opacity:1}},static:{closed:{opacity:1},open:{opacity:1}} } as const;
+export const authSurfaceMotion={ dismissDistance:72,dismissVelocity:650,expandDistance:40,bottomSheet:{closed:{y:'100%',opacity:1},open:{y:0,opacity:1}},duration:0.4,fade:0.24,ease:[0.22,1,0.36,1] as const,backdrop:{closed:{opacity:0},open:{opacity:1}},sheet:{closed:{y:32,opacity:0},open:{y:0,opacity:1}},static:{closed:{opacity:1},open:{opacity:1}} } as const;
 
 export const menuSurfaceMotion={duration:0.45,fade:0.24,ease:[0.22,1,0.36,1] as const} as const;
